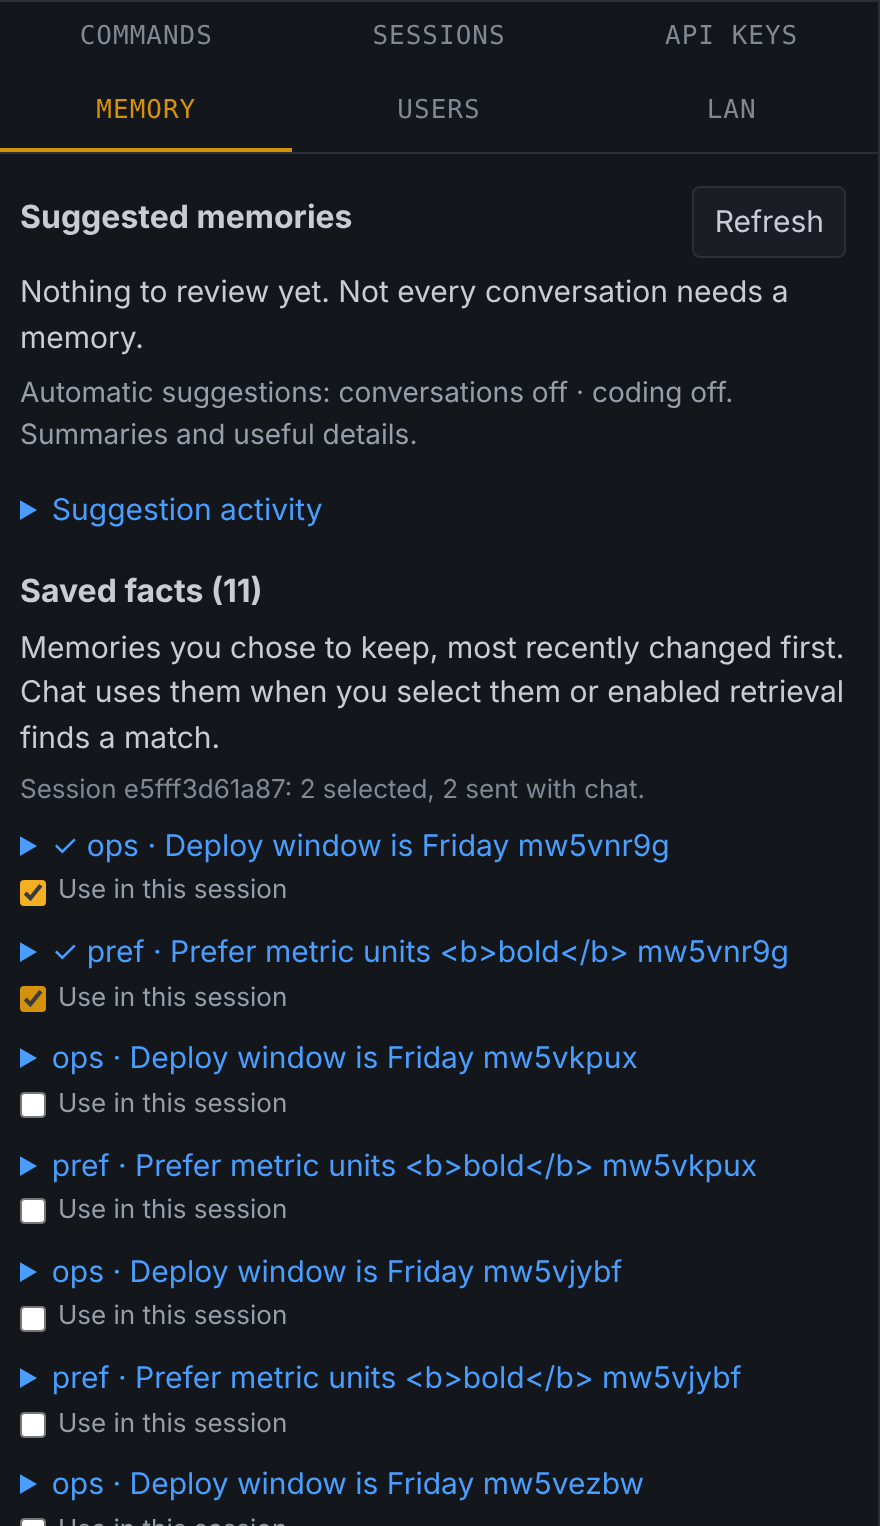
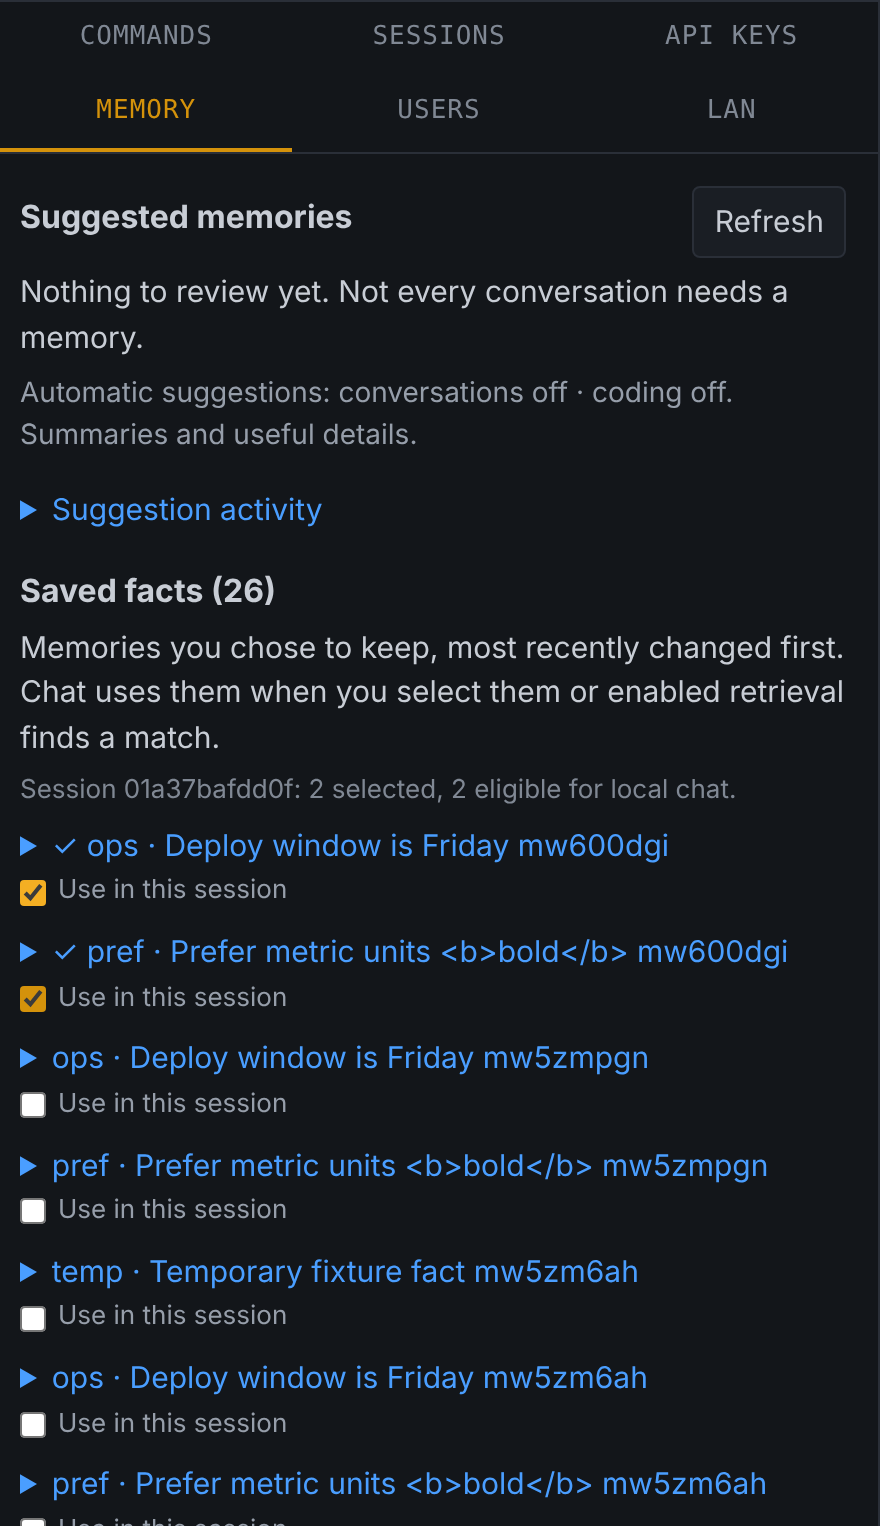
[fix] - Use "eligible" wording consistently in saved-fact selection status
Follows 1b00d8f's "N eligible for local chat" summary: the drop list,
the explicit-recall-off note and the outdated-revision note no longer
say "sent". Recaptures the synthetic saved-fact screenshot with the new
wording.

Claude-Session: https://claude.ai/code/session_016Cu6E9DHQKW6ow67y35SgH

diff --git a/assets/static/harness.html b/assets/static/harness.html
@@ -6393,12 +6393,12 @@ function factSelectionSummary(session, selection, error, facts) {
   const injected = Array.isArray(selection.injected) ? selection.injected.length : 0;
   const dropped = Array.isArray(selection.dropped) ? selection.dropped : [];
   let text = 'Session ' + session + ': ' + picked + ' selected, ' + injected + ' eligible for local chat.';
-  if (selection.explicit_recall === false) text += ' Explicit recall is off, so selections are kept but not sent.';
+  if (selection.explicit_recall === false) text += ' Explicit recall is off, so selections are kept but none are eligible.';
   const reasons = dropped.filter(item => item.reason !== 'recall_disabled').map(item => {
     const fact = facts.find(row => row.id === item.id);
     return (fact ? String(fact.category || 'fact') : String(item.id || 'fact')) + ' (' + (FACT_DROP_TEXT[item.reason] || String(item.reason || 'dropped')) + ')';
   });
-  if (reasons.length) text += ' Not sent: ' + reasons.join(', ') + '.';
+  if (reasons.length) text += ' Not eligible: ' + reasons.join(', ') + '.';
   return text;
 }
 
@@ -6499,7 +6499,7 @@ async function appendSavedFacts(panel) {
           : picks.filter(item => item.id !== fact.id)));
         if (pick && pick.expected_revision !== fact.revision) {
           const stale = document.createElement('span');
-          stale.textContent = ' Selected revision ' + pick.expected_revision + ' is outdated, so it is not sent.';
+          stale.textContent = ' Selected revision ' + pick.expected_revision + ' is outdated, so it is not eligible.';
           const refresh = document.createElement('button'); refresh.type = 'button';
           refresh.textContent = 'Use revision ' + fact.revision;
           refresh.addEventListener('click', () => commit(picks.map(item => item.id === fact.id ? { id: fact.id, expected_revision: fact.revision } : item)));
